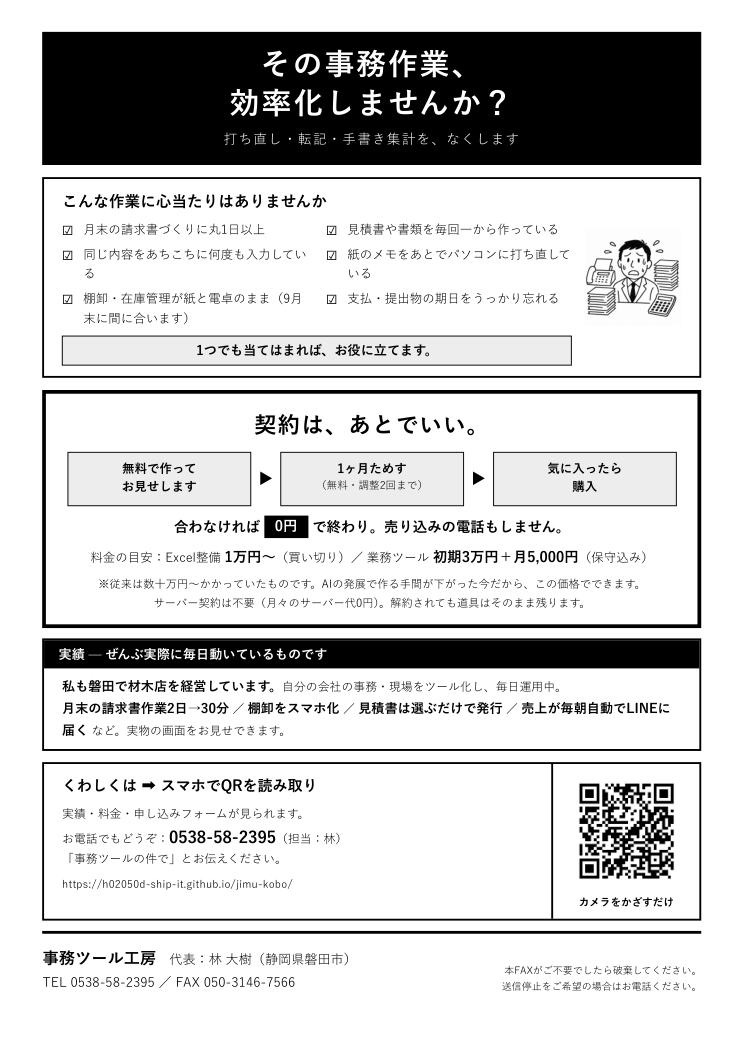
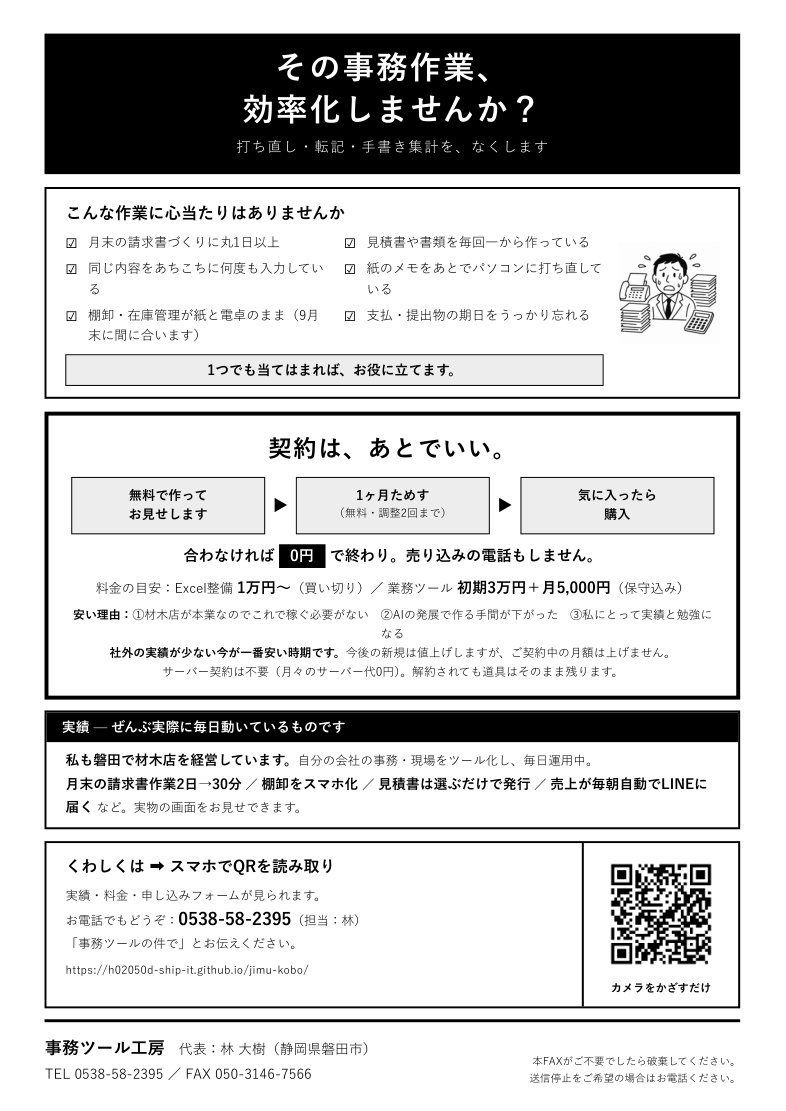
v8: 安さの理由を3点明示(本業あり/AIで手間減/実績と学び)＋今が最安・契約中は値上げしない保証

diff --git a/index.html b/index.html
@@ -80,6 +80,10 @@
   .honest .big{font-size:1.05rem;font-weight:bold;color:var(--green-dark);}
   .honest .strike{color:var(--muted);}
   .honest .strike s{text-decoration-color:var(--accent);text-decoration-thickness:2px;}
+  .honest ol.reasons{margin:0 0 14px;padding-left:0;list-style:none;counter-reset:r;}
+  .honest ol.reasons li{position:relative;padding:10px 0 10px 40px;border-bottom:1px dashed var(--line);font-size:.95rem;counter-increment:r;}
+  .honest ol.reasons li:last-child{border-bottom:none;}
+  .honest ol.reasons li::before{content:counter(r);position:absolute;left:4px;top:12px;width:24px;height:24px;border-radius:50%;background:var(--green);color:#fff;font-size:.8rem;font-weight:bold;display:flex;align-items:center;justify-content:center;}
   ul.plain{list-style:none;}
   ul.plain li{padding:10px 0 10px 30px;position:relative;border-bottom:1px dashed var(--line);font-size:.95rem;}
   ul.plain li::before{content:"✓";position:absolute;left:4px;color:var(--green);font-weight:bold;}
@@ -214,8 +218,15 @@
     <p class="strike">こうした業務ツールは、システム会社に頼むと<s>数十万〜100万円以上</s>かかってきました。その大半は、プログラマーの人件費です。</p>
     <p>いまはAIの発展で、作る手間が大きく下がりました。専門のプログラマーでなくても、<b>業務そのものを分かっている人間が、自分でツールを作れる時代</b>になったんです。私は実家の材木店のツールを全部この方法で作り、毎日現場で運用しています。</p>
     <p>ただし、最低限のITの知識がないと事故ります（データが消える、情報が漏れる、など）。そこは自社で毎日作っては直してきた経験でカバーしています。とくにデータの扱いは慎重にやっています。</p>
-    <p>そして正直なところ、社外への提供実績はまだ少ないです。<span class="big">だから、今は安くしています。</span></p>
     <p>それと、私も同じ小さな会社を経営している側です。数十万円を出す決断がどれだけ重いか、「効率化」と言われてもピンとこない気持ちも、実感として分かります。だから最初にお金を出させない形にしました。</p>
+    <p class="big" style="margin-bottom:8px">安くできる理由は、この3つです。</p>
+    <ol class="reasons">
+      <li><b>本業があります。</b>材木店が本業なので、これで生活費を稼ぐ必要がありません。だから相場を気にせず値段を決められます。</li>
+      <li><b>作る手間が下がりました。</b>AIの発展で、以前なら数十万円かかった開発が現実的な手間でできるようになりました。</li>
+      <li><b>私にとっては実績と勉強になります。</b>他社の事務を見せていただくこと自体が学びで、それが値段の一部を負担しているようなものです。</li>
+    </ol>
+    <p>正直に言うと、社外への提供実績がまだ少ないので、<span class="big">今が一番安い時期</span>です。実績が増えれば新しくお受けする価格は上げていくと思います。<br>
+    <b>ただし、一度ご契約いただいた方の月額は上げません。</b>始めた時の金額のまま続けていただけます。</p>
     <p>口で言っても伝わらないので、「作って、触ってもらって、気に入らなければ0円」にしています。安さの理由も、腕のほども、実物で確かめてください。</p>
   </div>
   <div class="honest" style="margin-top:14px">

diff --git a/fax.html b/fax.html
@@ -89,7 +89,7 @@
   </div>
   <p class="zero">合わなければ <span>0円</span> で終わり。売り込みの電話もしません。</p>
   <p class="price-line">料金の目安：Excel整備 <b>1万円〜</b>（買い切り）／ 業務ツール <b>初期3万円＋月5,000円</b>（保守込み）</p>
-  <p style="text-align:center;font-size:9pt;margin-top:1.5mm;">※従来は数十万円〜かかっていたものです。AIの発展で作る手間が下がった今だから、この価格でできます。<br>サーバー契約は不要（月々のサーバー代0円）。解約されても道具はそのまま残ります。</p>
+  <p style="text-align:center;font-size:9pt;margin-top:1.5mm;line-height:1.6;"><b>安い理由：</b>①材木店が本業なのでこれで稼ぐ必要がない　②AIの発展で作る手間が下がった　③私にとって実績と勉強になる<br><b>社外の実績が少ない今が一番安い時期です。</b>今後の新規は値上げしますが、ご契約中の月額は上げません。<br>サーバー契約は不要（月々のサーバー代0円）。解約されても道具はそのまま残ります。</p>
 </div>
 
 <div class="jisseki">
